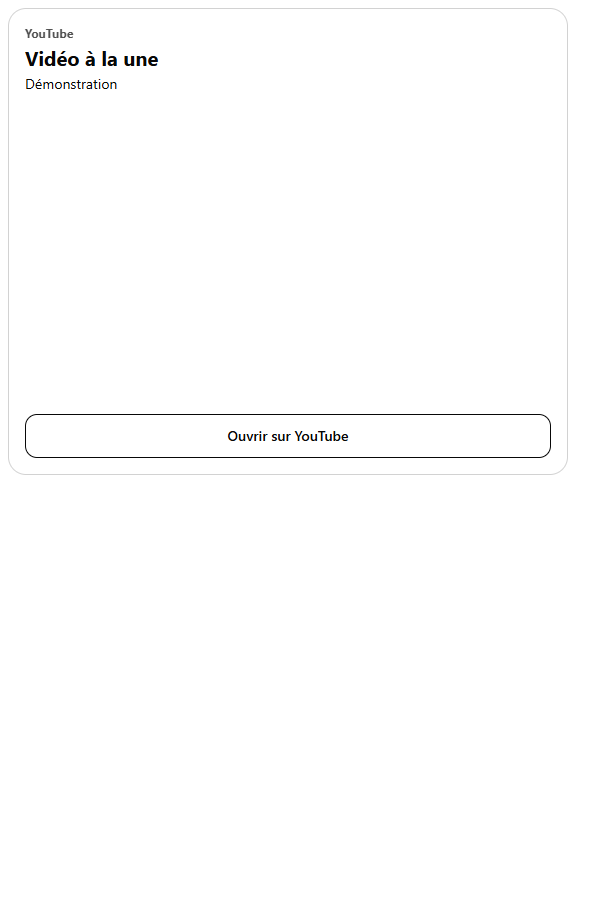
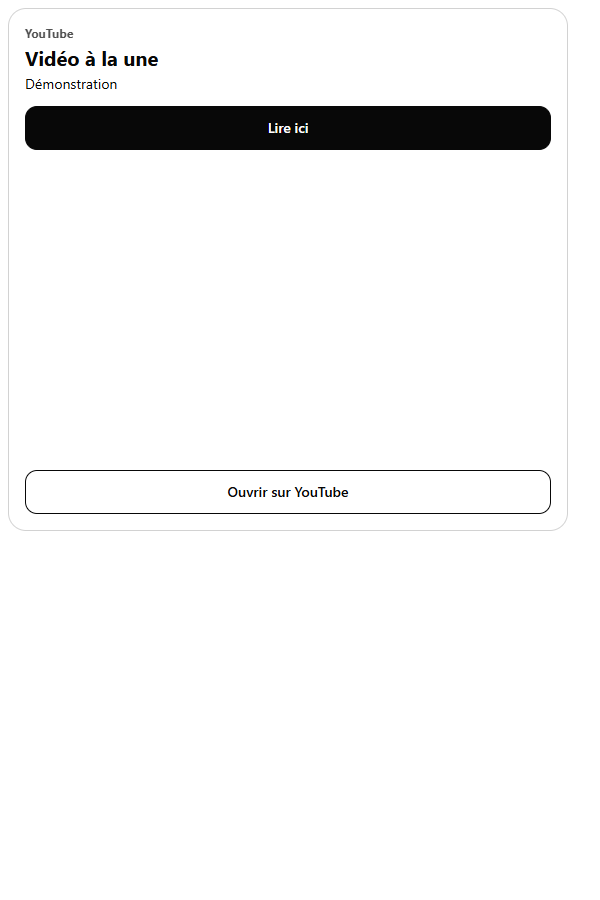
🧪 Keep contextual card styles scoped and pinned

Changed region(s): [[0.03, 0.0933, 0.93, 0.1867], [0.03, 0.4667, 0.93, 0.56]]

diff --git a/assets/me-studio/css/card-v2.css b/assets/me-studio/css/card-v2.css
@@ -270,12 +270,11 @@
 .faluss-link-card.faluss-link-card--canonical.faluss-link-card--links-mode-image-grid .faluss-link-card__link--image > span:last-child {text-shadow:0 1px 3px #000}
 .faluss-link-card.faluss-link-card--canonical .faluss-link-card__contextual{display:grid;gap:12px;width:100%;margin:0 0 20px;padding:16px;border:1px solid color-mix(in srgb,var(--fl-action) 18%,transparent);border-radius:18px;background:color-mix(in srgb,var(--fl-page-background) 88%,#fff);text-align:left}
 .faluss-link-card.faluss-link-card--canonical.faluss-link-card--links-mode-image-grid .faluss-link-card__contextual{grid-column:1/-1;min-width:0}
-.faluss-link-card__contextual-cover img{display:block;width:100%;max-height:240px;object-fit:cover;border-radius:12px}
-.faluss-link-card__contextual-copy span{font-size:12px;font-weight:700;opacity:.7}
-.faluss-link-card__contextual-copy h3{margin:4px 0;color:var(--fl-name-color);font-size:20px;line-height:1.25}
-.faluss-link-card__contextual-copy p{margin:4px 0 0;font-size:14px;line-height:1.45}
-.faluss-link-card__contextual>button,.faluss-link-card__contextual>a{display:inline-flex;align-items:center;justify-content:center;min-height:44px;padding:10px 14px;border:1px solid var(--fl-action);border-radius:12px;background:var(--fl-action);color:var(--fl-action-text);font:600 14px/1.3 Outfit,system-ui,sans-serif;text-decoration:none;cursor:pointer}
-.faluss-link-card__contextual>a{background:transparent;color:var(--fl-name-color)}
-.faluss-link-card__contextual-player iframe{display:block;width:100%;aspect-ratio:16/9;min-height:225px;border:0;border-radius:12px}
-.faluss-link-card__contextual[data-faluss-contextual-provider=twitch] .faluss-link-card__contextual-player iframe{min-height:300px}
-.faluss-link-card__contextual [hidden]{display:none!important}
+.faluss-link-card.faluss-link-card--canonical .faluss-link-card__contextual-cover img{display:block;width:100%;max-height:240px;object-fit:cover;border-radius:12px}
+.faluss-link-card.faluss-link-card--canonical .faluss-link-card__contextual-copy span{font-size:12px;font-weight:700;opacity:.7}
+.faluss-link-card.faluss-link-card--canonical .faluss-link-card__contextual-copy h3{margin:4px 0;color:var(--fl-name-color);font-size:20px;line-height:1.25}
+.faluss-link-card.faluss-link-card--canonical .faluss-link-card__contextual-copy p{margin:4px 0 0;font-size:14px;line-height:1.45}
+.faluss-link-card.faluss-link-card--canonical .faluss-link-card__contextual>button,.faluss-link-card.faluss-link-card--canonical .faluss-link-card__contextual>a{display:inline-flex;align-items:center;justify-content:center;min-height:44px;padding:10px 14px;border:1px solid var(--fl-action);border-radius:12px;background:var(--fl-action);color:var(--fl-action-text);font:600 14px/1.3 Outfit,system-ui,sans-serif;text-decoration:none;cursor:pointer}
+.faluss-link-card.faluss-link-card--canonical .faluss-link-card__contextual>a{background:transparent;color:var(--fl-name-color)}
+.faluss-link-card.faluss-link-card--canonical .faluss-link-card__contextual-player iframe{display:block;width:100%;aspect-ratio:16/9;min-height:225px;border:0;border-radius:12px}
+.faluss-link-card.faluss-link-card--canonical .faluss-link-card__contextual[data-faluss-contextual-provider=twitch] .faluss-link-card__contextual-player iframe{min-height:300px}

diff --git a/tests/Link/LinkCharacterizationTest.php b/tests/Link/LinkCharacterizationTest.php
@@ -17,7 +17,7 @@ final class LinkCharacterizationTest extends TestCase
[8 lines of base64/hex data omitted]
